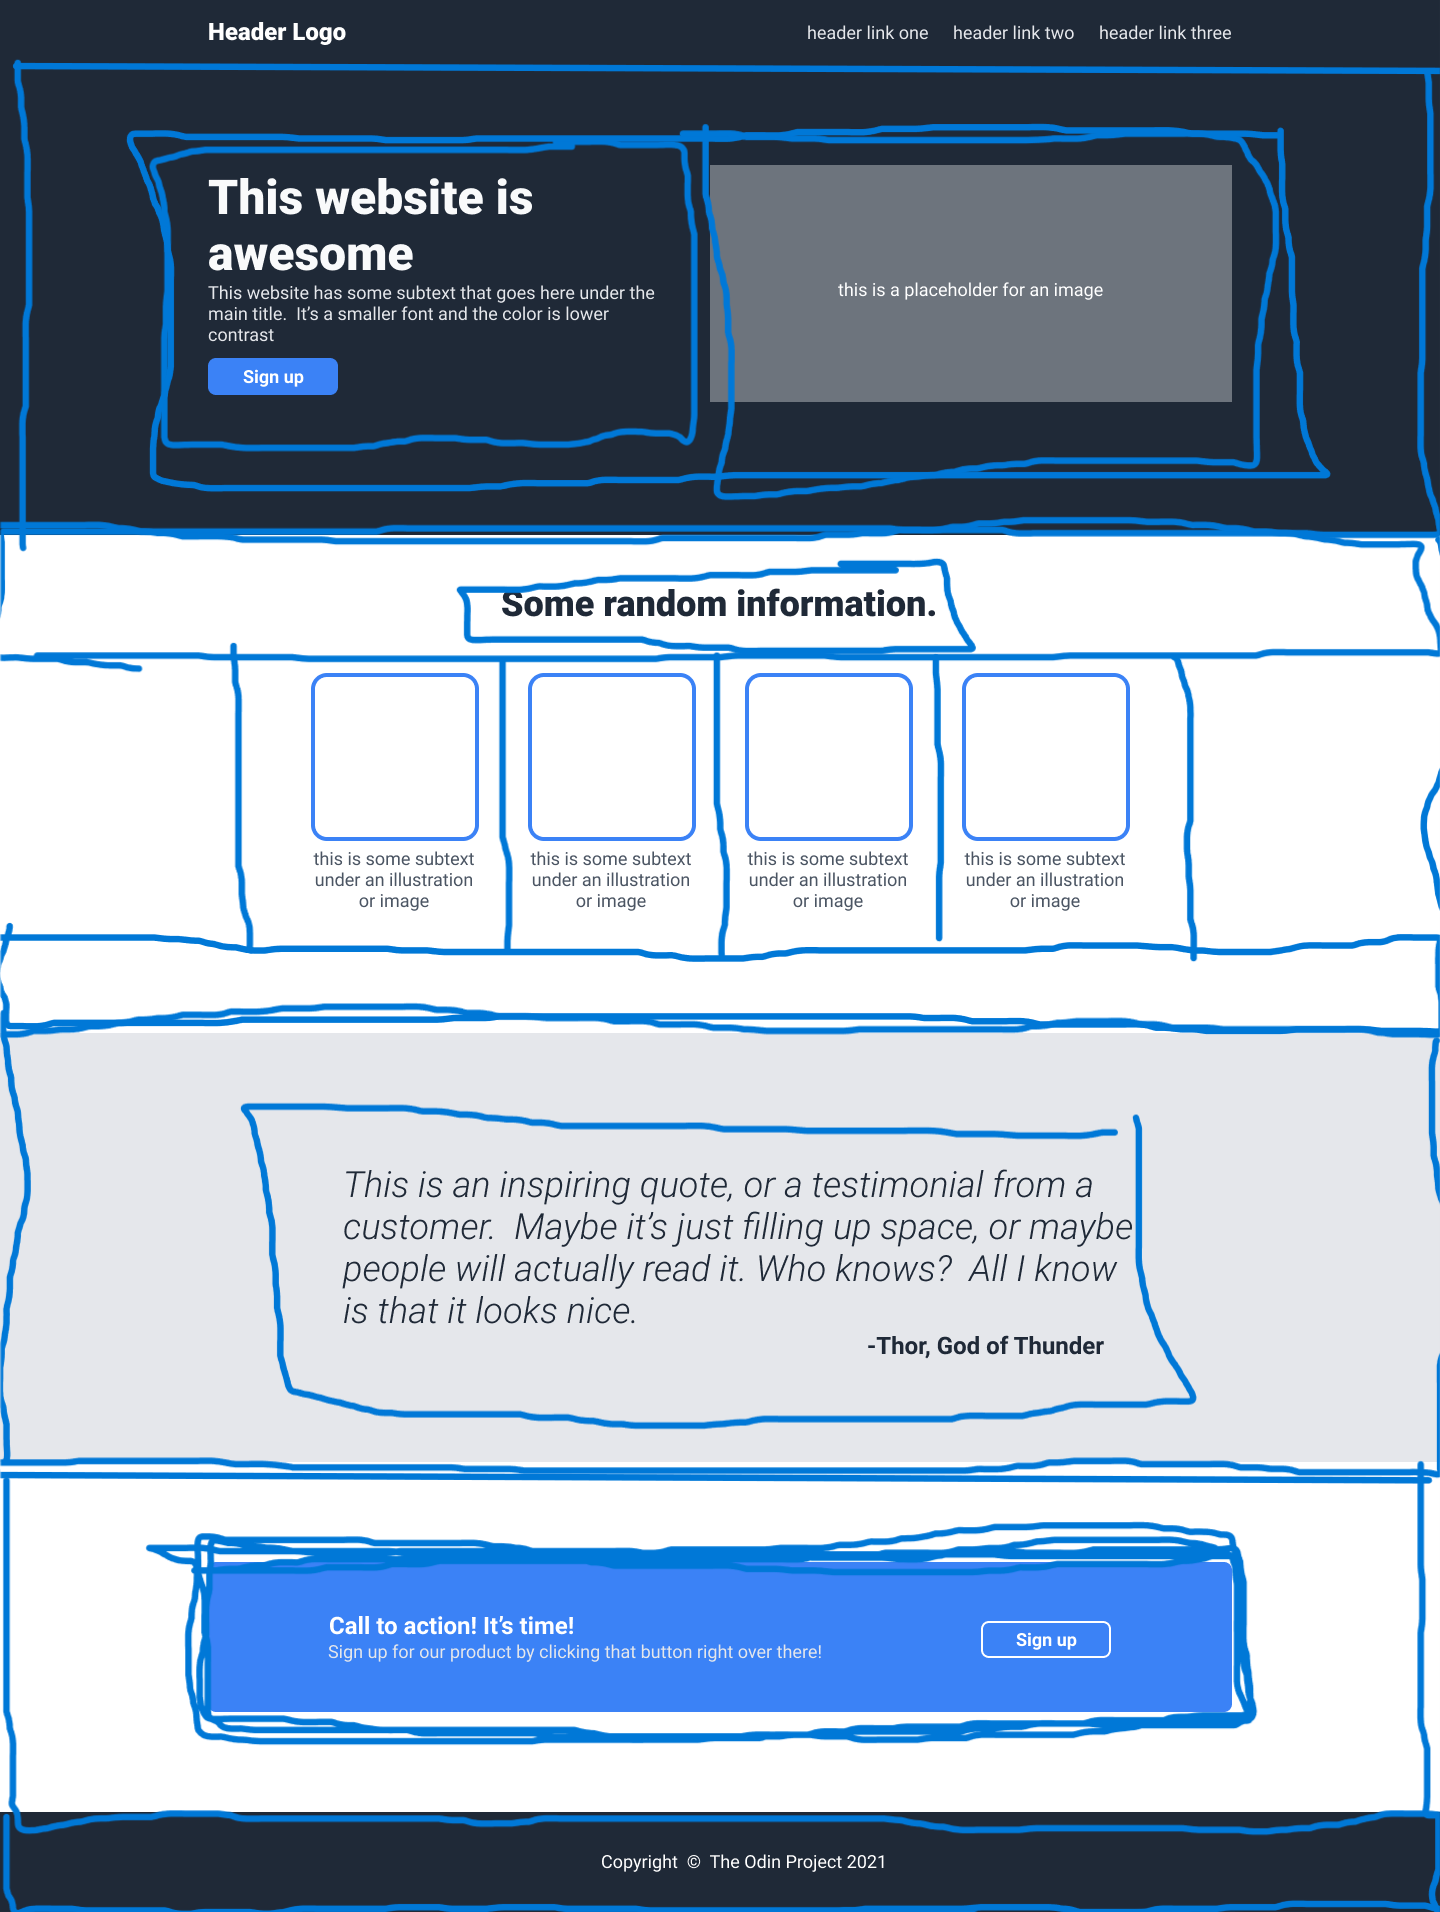
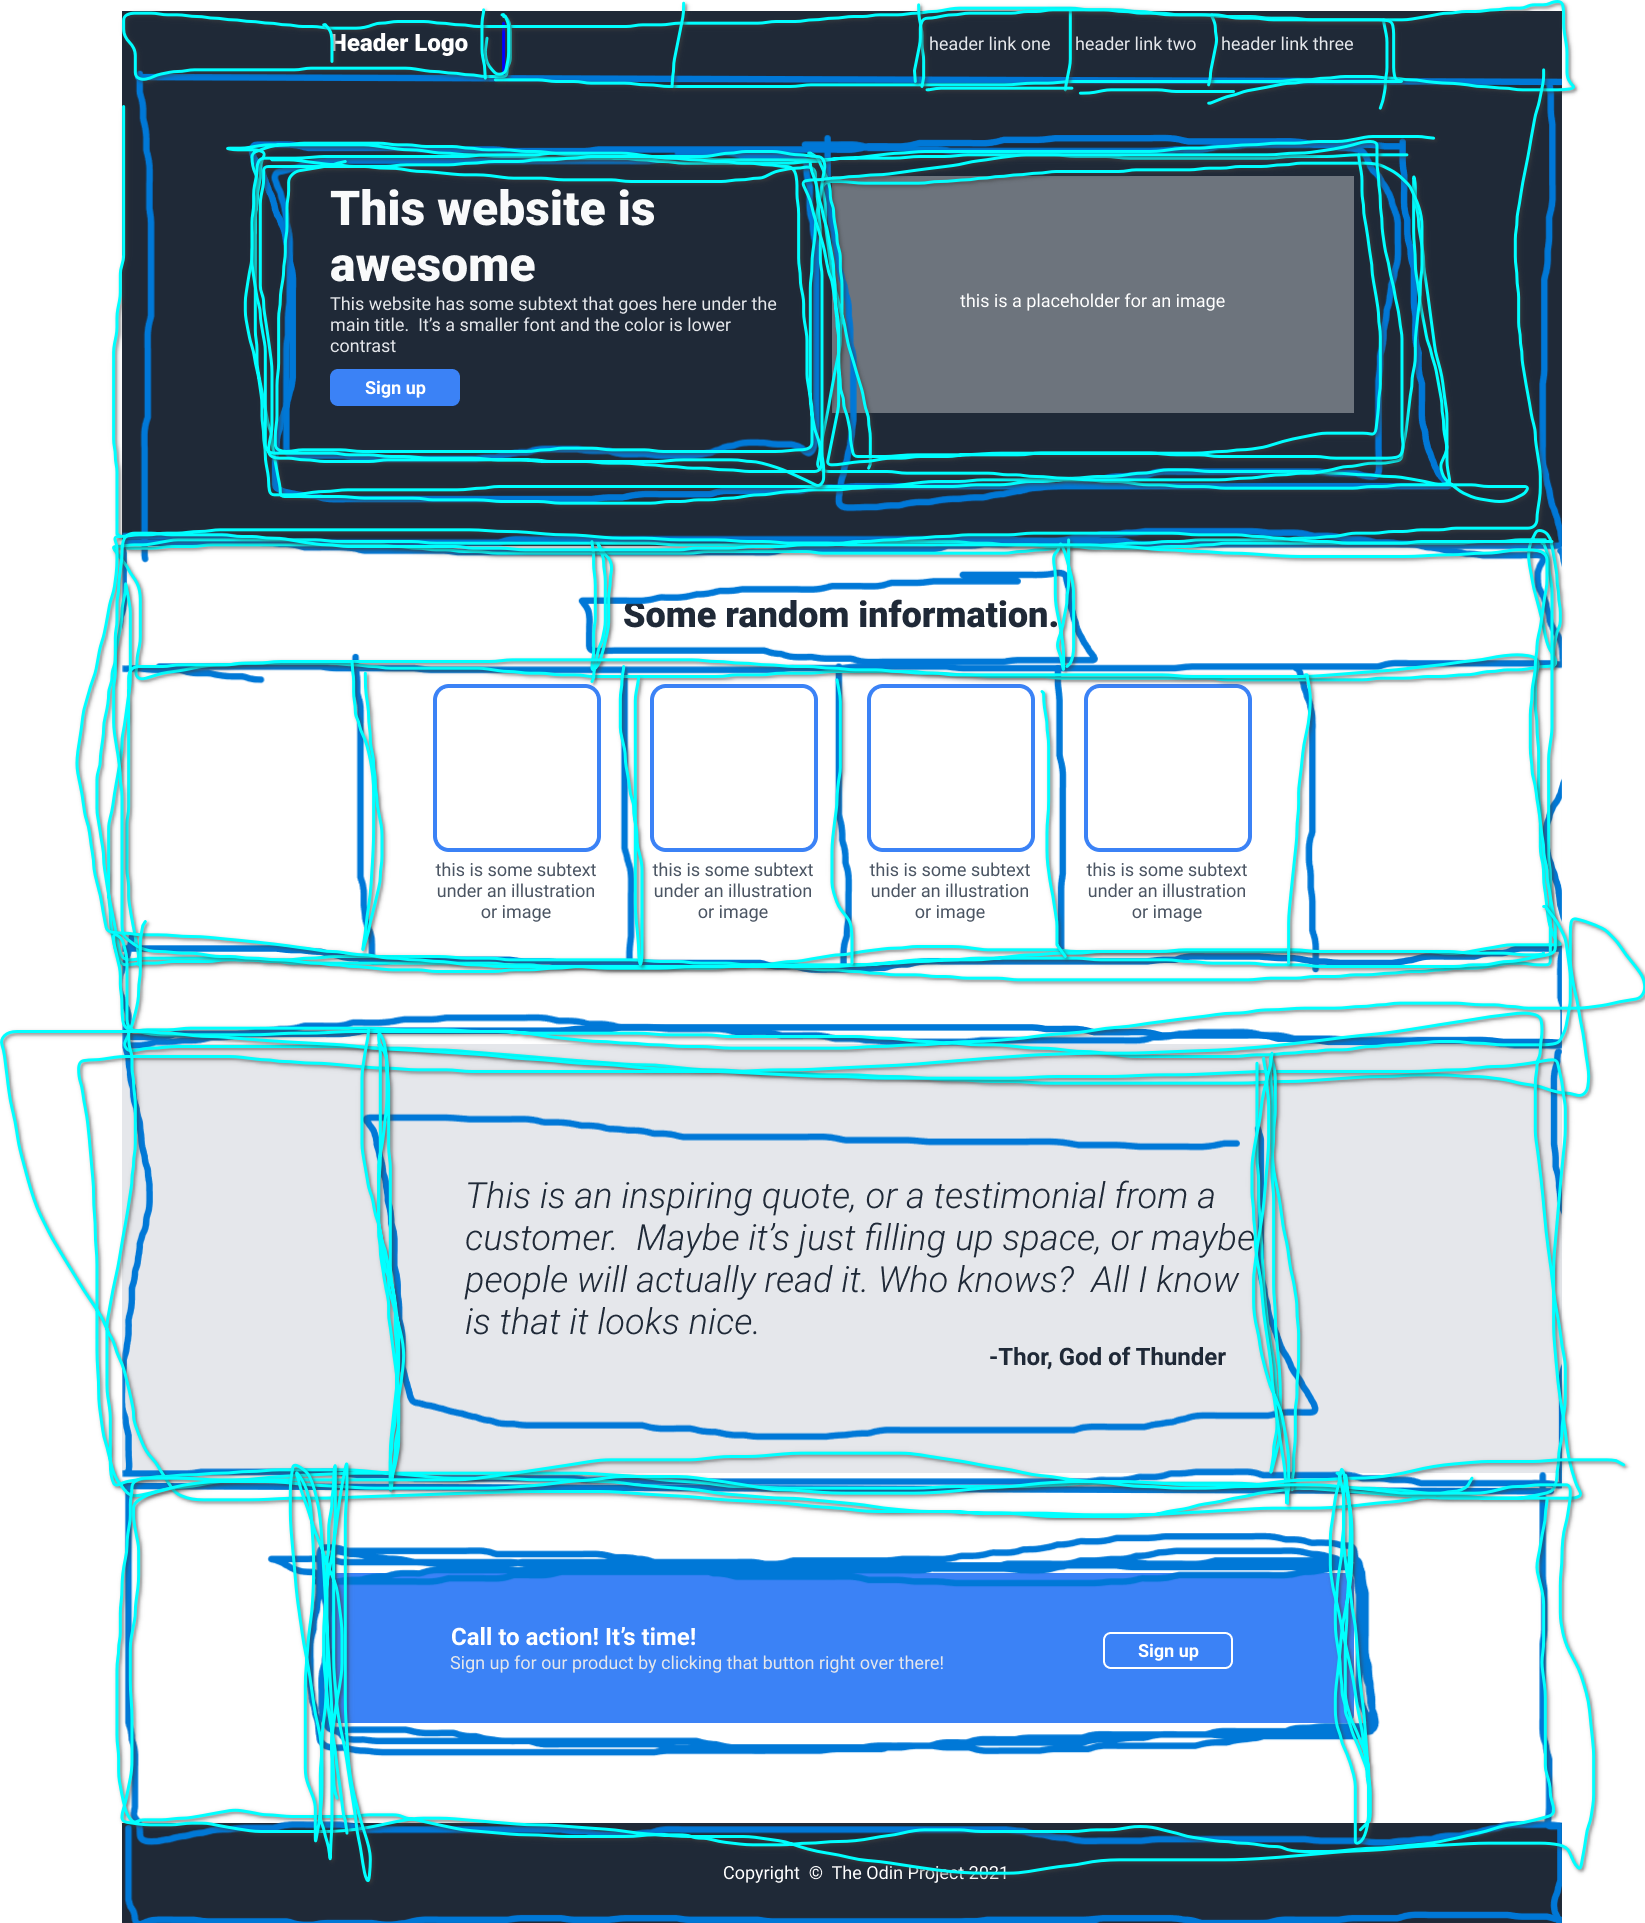
may move les get it git pushgit push

diff --git a/landing_page/index.html b/landing_page/index.html
@@ -7,24 +7,57 @@
     <link rel="stylesheet" href="styles.css">
 </head>
     <header>
-        <h1>Header Logo</h1>
+    
+        <div class="itemContainer">
+            <div class="headerLogo"><h1>Header Logo</h1></div>
+            <h2 class="headerLink">header link one</h2>
+            <h2 class="headerLink">header link two</h2>
+            <h2 class="headerLink">header link three</h2>
+        </div>
     </header>
 <body>
+    <div class="titleContainer">
+        <div>
+            <h1>This website is awesome </h1>
+            <p1>This website has some subtext that goes here under the main title. It's a smaller font and the color is lower contrast</p1>
+            <button></button>
+        </div>
+        <div>
+            <img class="titleImage" src="" alt="this is a placeholder for an image" height="100" >
+        </div>    
+    </div>
+
     <div>
-        <h1>Sharpness is devotion</h1>
-        <p1>Describe the devotion of the sharpness in question. This exlempifies that significance and demonstrates a message.</p1>
+
+        <div><h1>Some random information.</h1></div>
+    
+        <div class="infoModule">
+            <p1>this is some subtext under an illustration or image</p1>
+            <p1>this is some subtext under an illustration or image</p1>
+            <p1>this is some subtext under an illustration or image</p1>
+            <p1>this is some subtext under an illustration or image</p1>    
+        </div>
     </div>
     <div>
-        <h1>Distinguishing details</h1>
-        <p1>Key examples that illustrate the sigficance of mentioned aspects</p1>    
+        <p1>This is an inspiring quote, or a testimonial from a customer. Maybe 
+            it's just filling up space, or maybe people will actually read it. 
+            Who knows? All I know is that it looks nice.This is an inspiring quote, or a testimonial from a customer. Maybe 
+            it's just filling up space, or maybe people will actually read it. 
+            Who knows? All I know is that it looks nice.This is an inspiring quote, or a testimonial from a customer. Maybe 
+            it's just filling up space, or maybe people will actually read it. 
+            Who knows? All I know is that it looks nice. -Thor, God of Thunder</p1>    
     </div>
     <div>
-        <h1>Exlempifying quotes</h1>
-        <p1>A quote that delivers inspiration and creates the attention needed to establish a message.</p1>    
-    </div>
-    <div>
-        <h1>Establish an initiative!</h1>
-        <p1>Proceed and create action to take advantage of this opportunity</p1>    
+        <div class="signupBanner">
+            <div>
+                <h2>Call to action! It's time!</h2>
+                <p2>Sign up for our product by 
+                    clicking that button right 
+                    over there!
+                </p2>
+            </div>
+        </div>
+        
     </div>
     
 </body>

diff --git a/landing_page/styles.css b/landing_page/styles.css
@@ -1,3 +1,56 @@
 * {
-    outline: 2px solid red;
-  }
+outline: 2px solid red;
+
+
+}
+
+
+.itemContainer{
+  display: flex;
+
+}
+
+.itemContainer h1{
+  flex: 1;
+  
+}
+
+.headerLogo {
+  width: 60%;
+}
+
+.headerLogo h1 {
+  text-align: center;
+}
+
+.headerLink {
+  text-align: center;
+}
+
+.titleContainer{
+  display: flex;
+  justify-content: center;
+  color: red;
+}
+
+.titleContainer div {
+  justify-content: center;
+  width: 37.5%;
+}
+.titleImage {
+  align-items: center;
+  width: 37.5%;
+}
+
+.infoModule {
+  display: flex;
+}
+
+.signupBanner {
+  display: flex;
+  align-items: center;
+}
+
+.signupBanner h2 {
+  text-align: center;
+}
